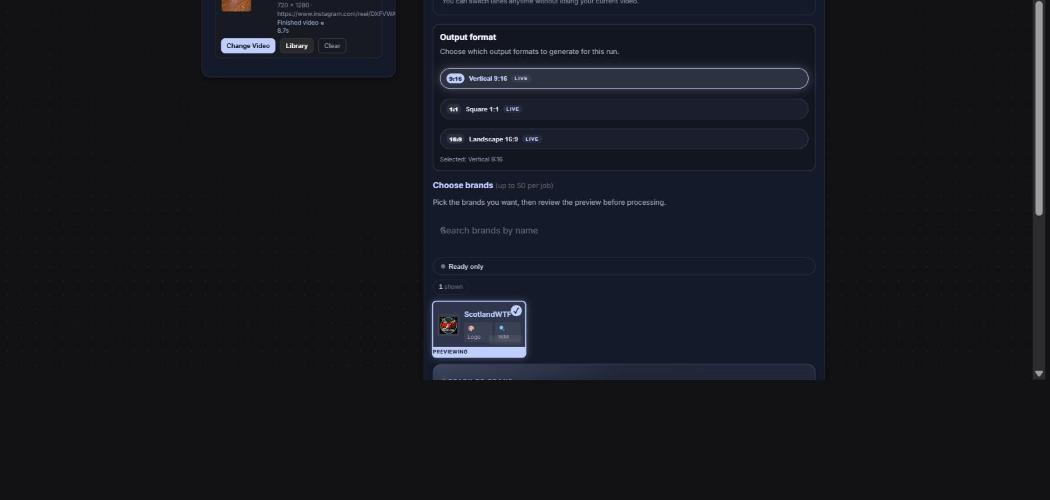
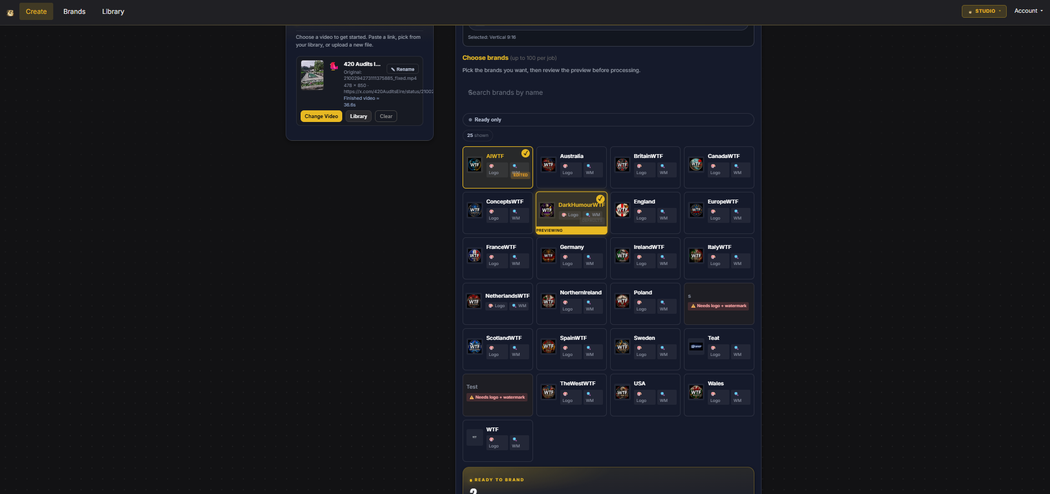
Swap evidence shot 2 for real multi-brand selection screenshot

diff --git a/portal/templates/waitlist.html b/portal/templates/waitlist.html
@@ -682,8 +682,8 @@ img { display: block; }
                     <figcaption>1. Pick your source</figcaption>
                 </figure>
                 <figure class="proof-shot">
-                    <img src="{{ url_for('static', filename='img/waitlist_v4/02_configure_outputs.png') }}" alt="Brandr Create step 2 — output format and brand selected" width="1050" height="500" loading="lazy">
-                    <figcaption>2. Choose format &amp; brand</figcaption>
+                    <img src="{{ url_for('static', filename='img/waitlist_v4/02_configure_outputs.png') }}" alt="Brandr Create step 2 — selecting multiple brands to render from a shared source clip" width="1050" height="494" loading="lazy">
+                    <figcaption>2. Choose your brands</figcaption>
                 </figure>
                 <figure class="proof-shot">
                     <img src="{{ url_for('static', filename='img/waitlist_v4/03_review_cockpit.png') }}" alt="Brandr review cockpit with watermark and logo controls" width="1050" height="500" loading="lazy">
